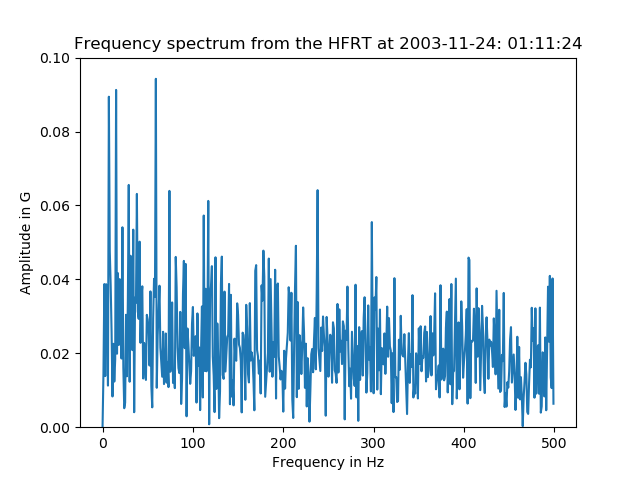
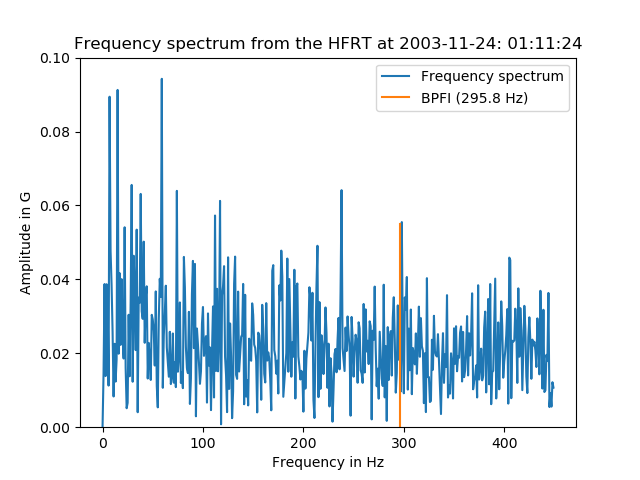
8

diff --git a/UiB-master/Chapters/chapter05.tex b/UiB-master/Chapters/chapter05.tex
@@ -12,19 +12,20 @@
 	
 	%%=========================================
 	\section{Comparison of results}
+	Figure \ref{fig:hfrt-method} shows a frequency spectrum obtained from the high frequency resonance technique, while \ref{fig:yapi-method} shows a frequency spectrum obtained from the scheme proposed in this thesis.
 	\begin{figure}[H]
 		\centering
 		%\includegraphics[width=0.7\linewidth]{../fig/bpfi/first_day_spectrum}
 		\includegraphics[width=0.7\linewidth]{../fig/hfrt}
-		\caption{Frequency spectrum with the presence of inner race defect frequency and sidebands.}
-		\label{fig:bpfi1}
+		\caption{Frequency spectrum with an identified ball pass inner race defect frequency obtained from the high frequency resonance technique (HFRT).}
+		\label{fig:hfrt-method}
 		
 		\begin{figure}[H]
 			\centering
 			%\includegraphics[width=0.8\linewidth]{../fig/periodogram_bpfi/start_imf1_bpfi}
 			\includegraphics[width=0.7\linewidth]{../fig/periodogram_bpfi/end_imf1_bpfi}
-			\caption{Periodogram of the pulse signal obtained from IMF number 1, at the beginning (top) and the end (bottom) of experiment number 1.}
-			\label{fig:startimf1bpfi1}
+			\caption{Frequency spectrum with an identified ball pass inner race defect frequency obtained from the method posited in this thesis.}
+			\label{fig:yapi-method}
 		\end{figure}
 	\end{figure}
 	\label{sec:comp}
